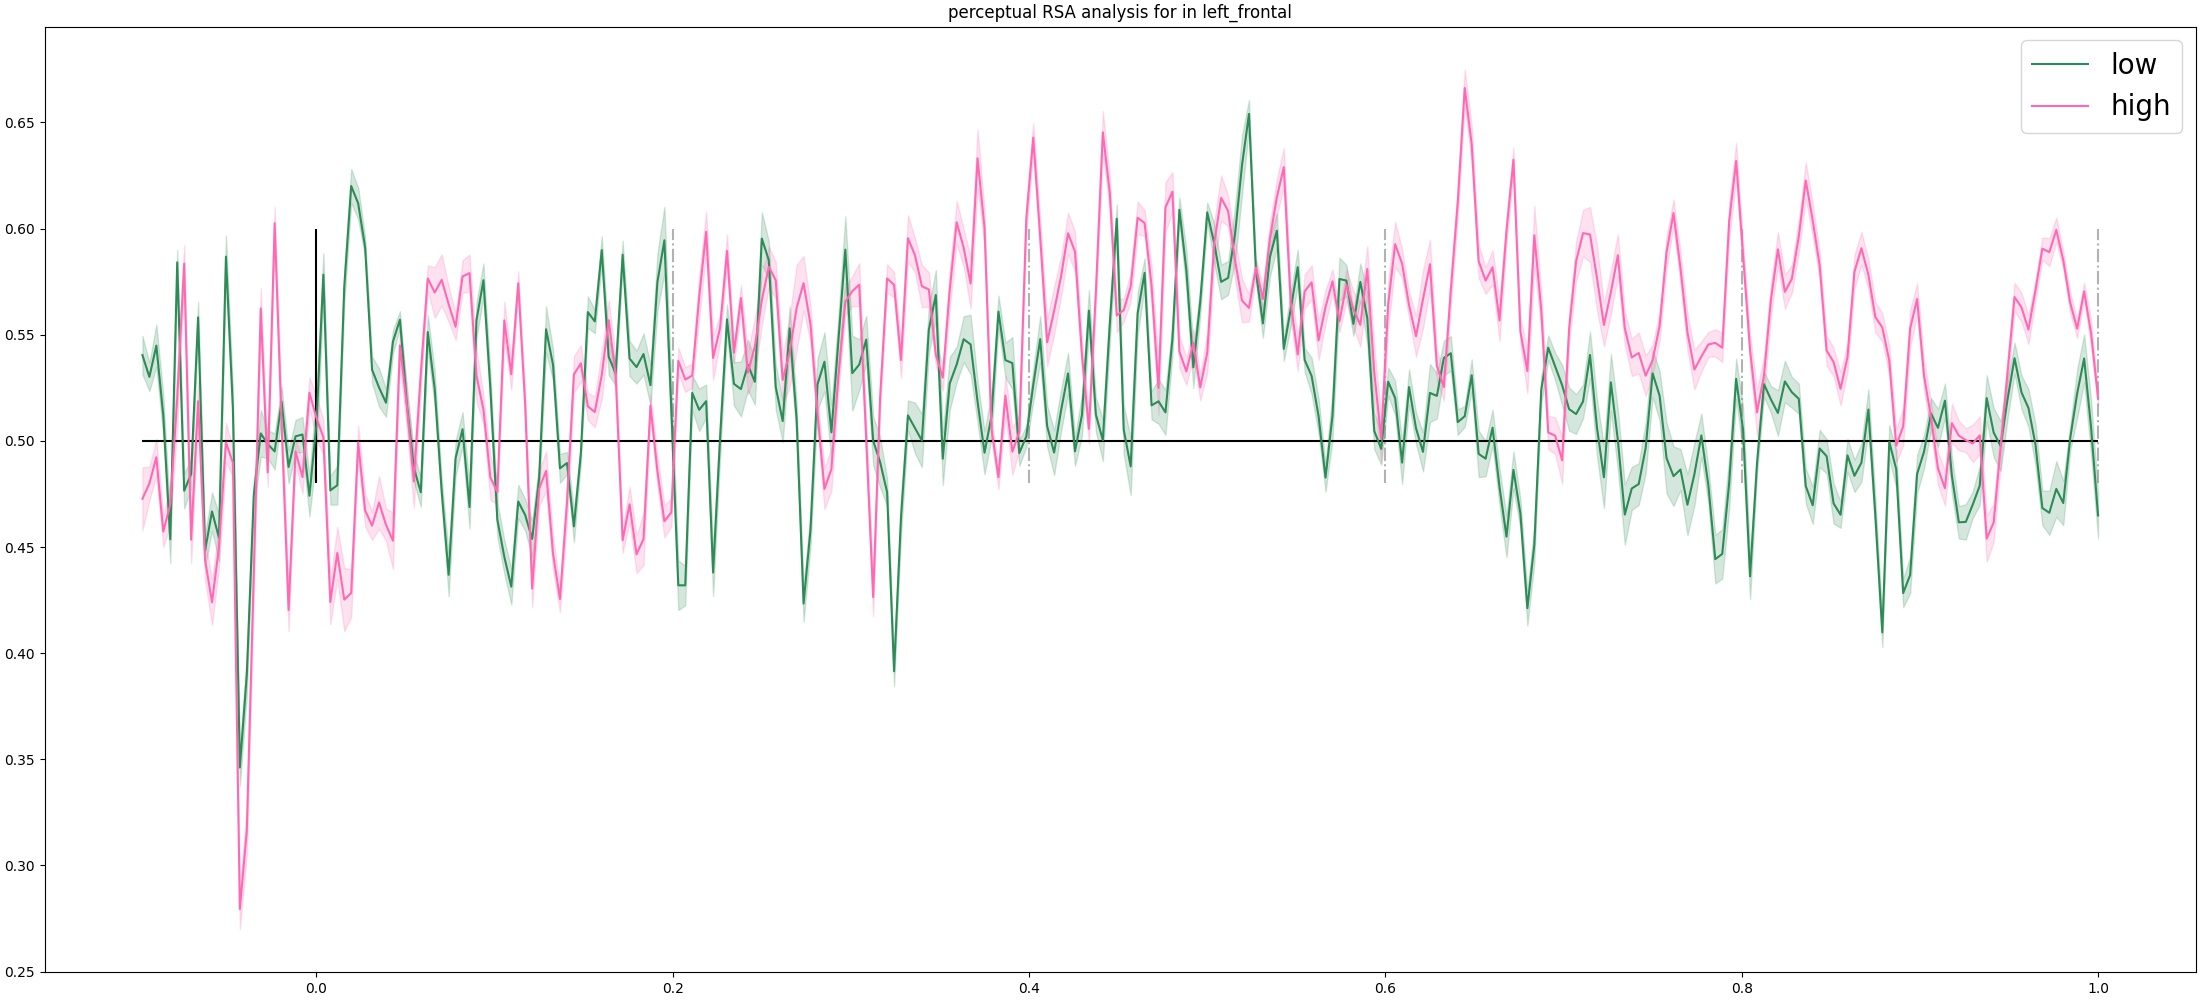
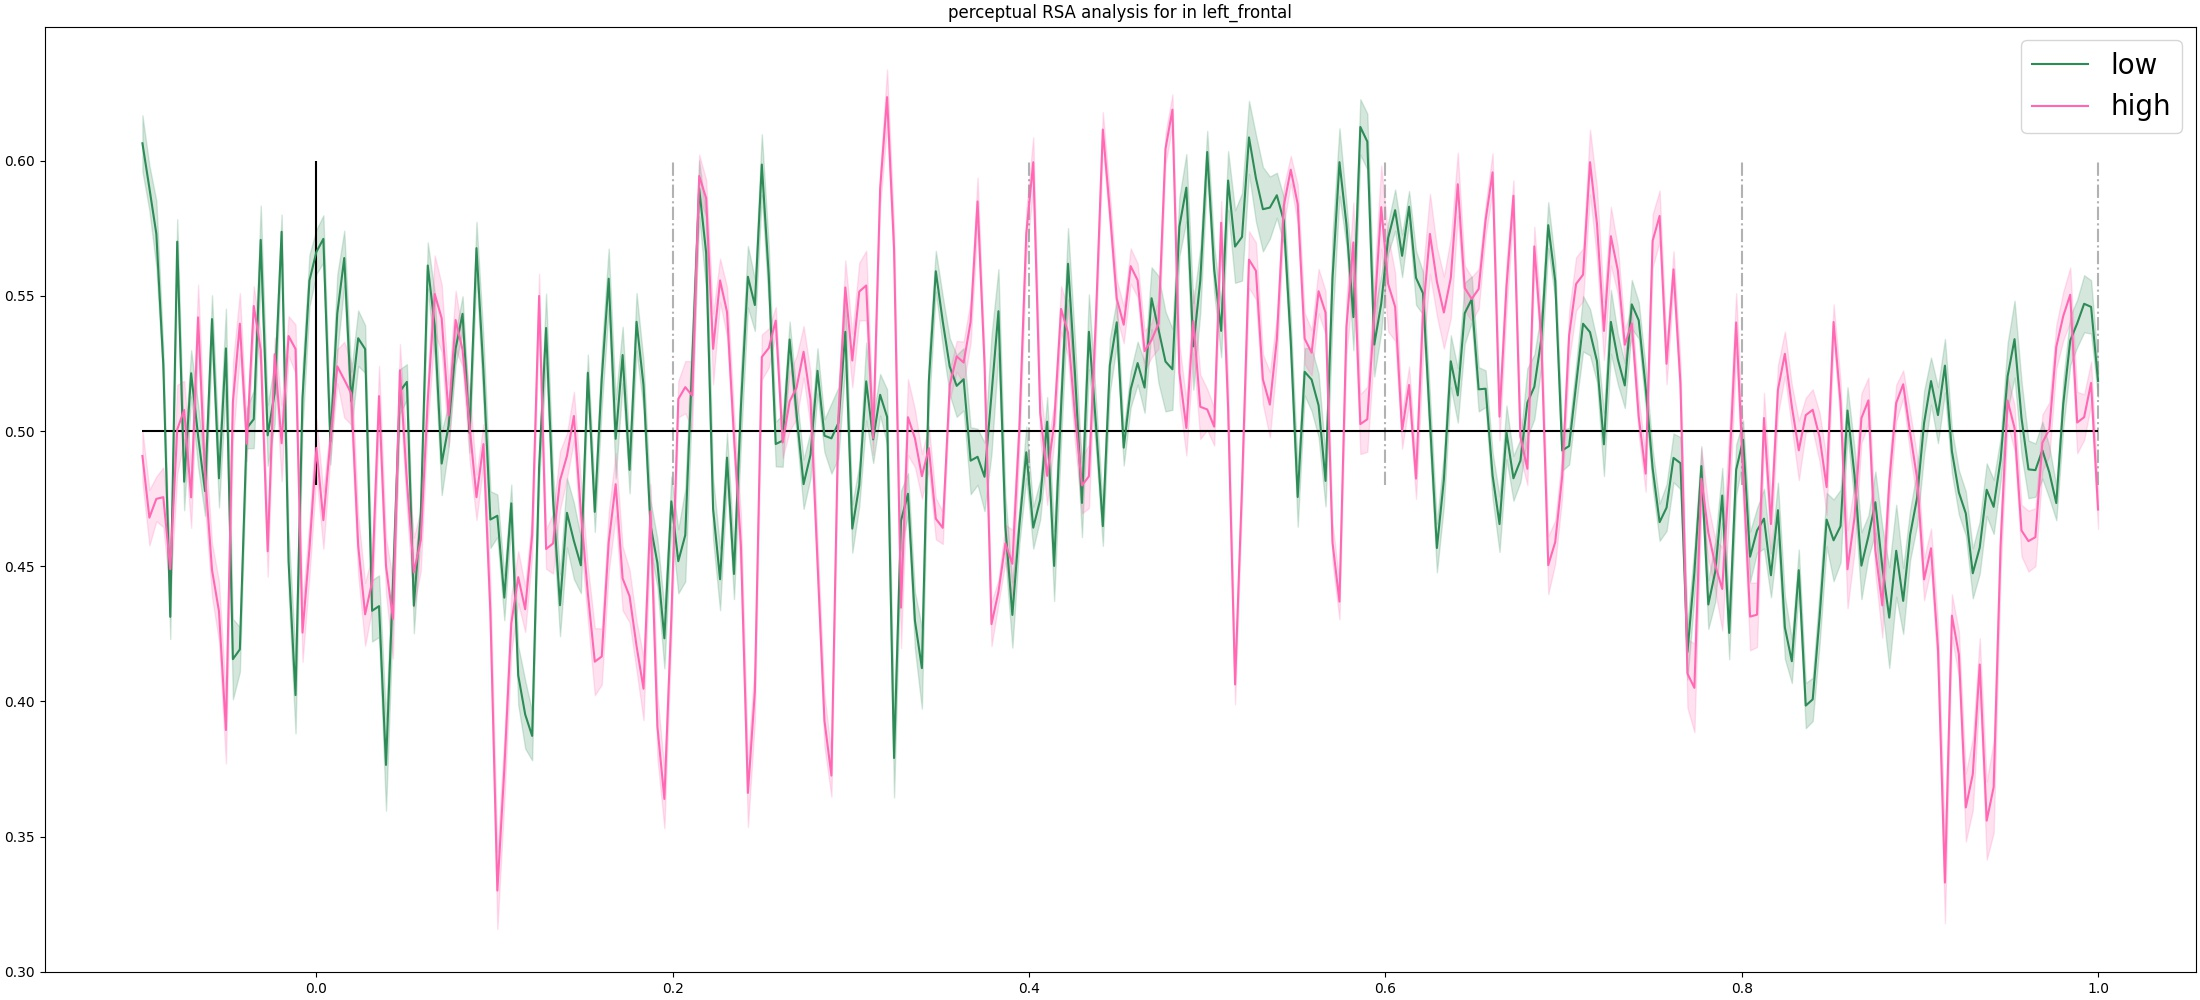
new plots

Changed region(s): [[0.0618, 0.093, 0.9582, 0.868], [0.0927, 0.837, 0.1236, 0.899]]

diff --git a/04_rsa_simple.py b/04_rsa_simple.py
@@ -48,17 +48,19 @@ def compute_pairwise(t):
     ### these are the test sets
     accuracies = list()
     for w_one, w_two in combs:
-        rsa_model = [distances[model][tuple(sorted(c))] for c in combs]
-        pred_one = numpy.average([t_data[w]*distances[model][tuple(sorted([w, w_one]))] for w in t_data.keys() if w not in [w_one, w_two]], axis=0)
-        pred_two = numpy.average([t_data[w]*distances[model][tuple(sorted([w, w_two]))] for w in t_data.keys() if w not in [w_one, w_two]], axis=0)
+        avg_data = numpy.average([v for k, v in t_data.items() if k not in [w_one, w_two]], axis=0)
+        current_data = {k : v-avg_data for k, v in t_data.items()}
+        #rsa_model = [similarities[model][tuple(sorted(c))] for c in combs]
+        pred_one = numpy.average([current_data[w]*similarities[model][tuple(sorted([w, w_one]))] for w in t_data.keys() if w not in [w_one, w_two]], axis=0)
+        pred_two = numpy.average([current_data[w]*similarities[model][tuple(sorted([w, w_two]))] for w in t_data.keys() if w not in [w_one, w_two]], axis=0)
         ### match
         match = 0.
-        match += scipy.stats.pearsonr(pred_one, t_data[w_one])[0]
-        match += scipy.stats.pearsonr(pred_two, t_data[w_two])[0]
+        match += scipy.stats.pearsonr(pred_one, current_data[w_one])[0]
+        match += scipy.stats.pearsonr(pred_two, current_data[w_two])[0]
         ### match
         mismatch = 0.
-        mismatch += scipy.stats.pearsonr(pred_one, t_data[w_two])[0]
-        mismatch += scipy.stats.pearsonr(pred_two, t_data[w_one])[0]
+        mismatch += scipy.stats.pearsonr(pred_one, current_data[w_two])[0]
+        mismatch += scipy.stats.pearsonr(pred_two, current_data[w_one])[0]
         if match > mismatch:
             accuracies.append(1.)
         else:
@@ -66,15 +68,25 @@ def compute_pairwise(t):
     #t_corrs = [1-scipy.stats.pearsonr(t_data[w_one], t_data[w_two])[0] for w_one, w_two in combs]
     #corr = scipy.stats.pearsonr(rsa_model, t_corrs)[0]
     corr = numpy.average(accuracies)
+    print(corr)
     return (t, corr)
 
 def minus_one_one_norm(vectors):
     labels = [k[1] for k in vectors]
     names = [k[0] for k in vectors]
-    norm_labels = [int(2*((x-min(labels))/(max(labels)-min(labels)))-1) for x in labels]
+    norm_labels = [2*((x-min(labels))/(max(labels)-min(labels)))-1 for x in labels]
     assert min(norm_labels) == -1
     assert max(norm_labels) == 1
-    vectors = {n : l for n, l in zip(names, labels)}
+    vectors = {n : l for n, l in zip(names, norm_labels)}
+    return vectors
+
+def zero_one_norm(vectors):
+    labels = [k[1] for k in vectors]
+    names = [k[0] for k in vectors]
+    norm_labels = [(x-min(labels))/(max(labels)-min(labels)) for x in labels]
+    assert min(norm_labels) == 0
+    assert max(norm_labels) == 1
+    vectors = {n : l for n, l in zip(names, norm_labels)}
     return vectors
 
 parser = argparse.ArgumentParser()
@@ -162,19 +174,21 @@ distances['levenshtein'] = dict()
 for w_one, w_two in all_combs:
     distances['levenshtein'][(w_one, w_two)] = levenshtein(w_one, w_two)
 
-### scaling in -1 to +1
+### scaling in 0 to +1
 for h, h_scores in distances.items():
-    distances[h] = minus_one_one_norm(h_scores.items())
+    distances[h] = zero_one_norm(h_scores.items())
+
+similarities = {h : {k : 1-val for k, val in v.items()} for h, v in distances.items()}
 
 general_folder = 'rsa_plots'
 
 for model in [
+              'perceptual',
+              'word_length', 
               'semantic_category', 
               'levenshtein',
-              'perceptual',
               'concreteness',
               'aoa',
-              'word_length', 
               ]:
     out_folder = os.path.join(general_folder, model, args.evaluation)
     os.makedirs(out_folder, exist_ok=True)
@@ -192,7 +206,11 @@ for model in [
                                     eeg_f,
                                     verbose=False,
                                     preload=True)
-            s_data = raw_f.get_data(picks='eeg')
+            s_data_unscaled = raw_f.get_data(picks='eeg')
+            ### Scaling 
+            s_data = mne.decoding.Scaler(raw_f.info, \
+                        scalings='mean'\
+                        ).fit_transform(s_data_unscaled)
             xs = raw_f.times
             events = raw_f.events
             ### initializing ERPs
